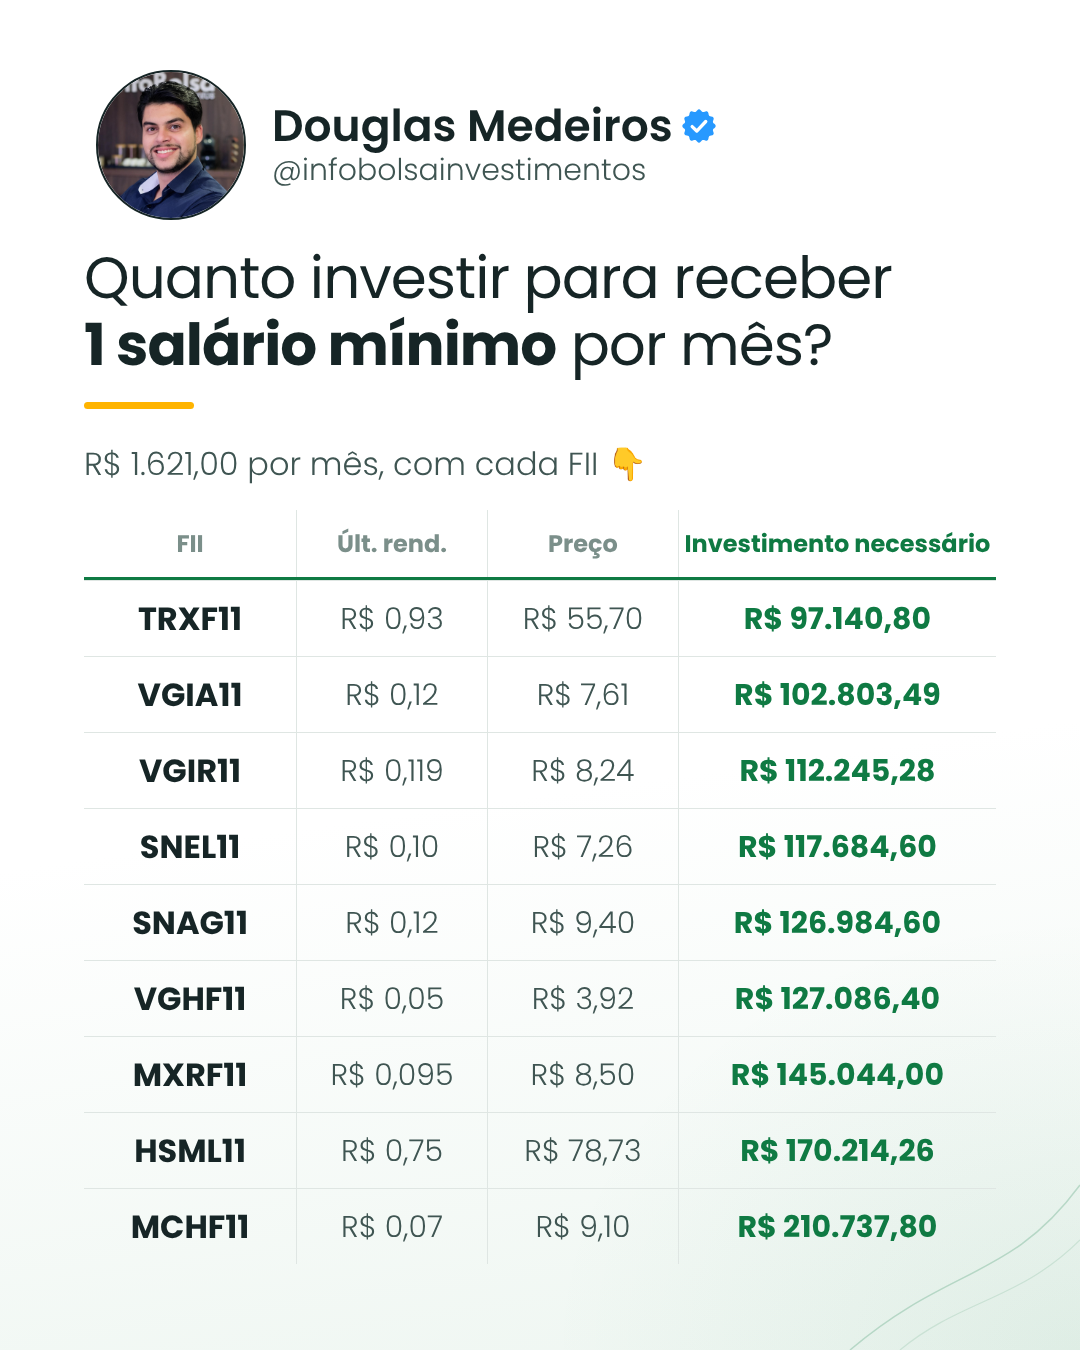
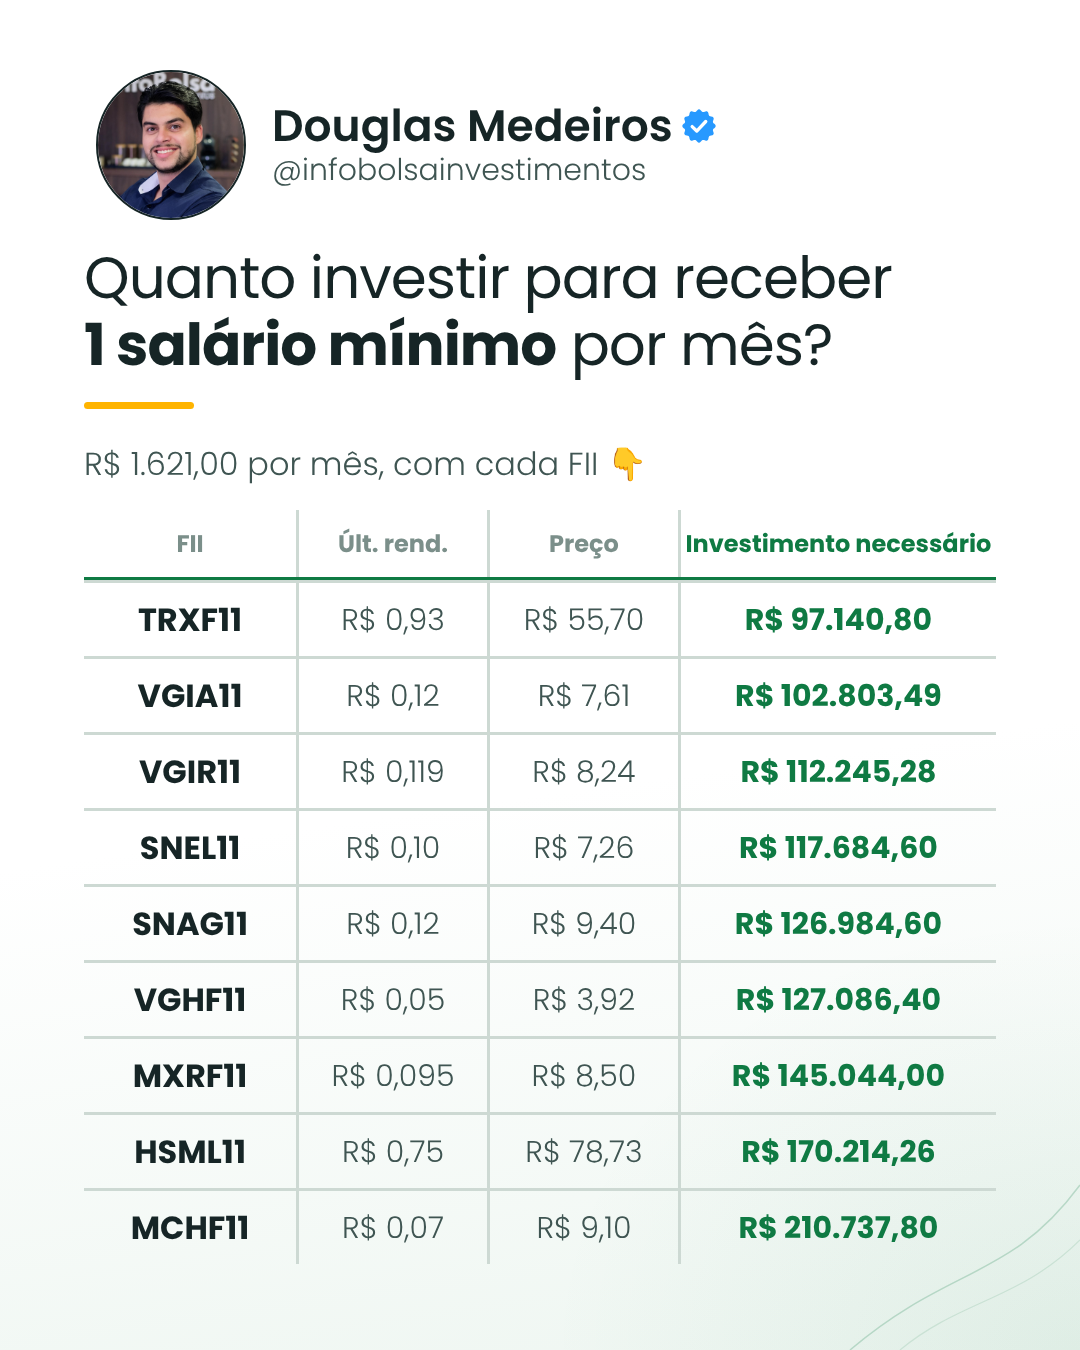
Posts 25/11: linhas separadoras mais grossas
Claude-Session: https://claude.ai/code/session_01V4Ut9U2W4uPbxLAyJQKmJH

diff --git a/kit/gen_qua.py b/kit/gen_qua.py
@@ -31,8 +31,8 @@ def br(v, d=2):
 G = [("HGLG11", "Pátria Log", 608345), ("BTLG11", "BTG Logística", 505908), ("GGRC11", "GGR Covepi", 411230),
      ("XPLG11", "XP Log", 347304), ("VILG11", "Vinci Logística", 149265)]
 CSS1 = """
-.lk{position:absolute;left:84px;right:84px;top:480px;border-top:1.5px solid #dfe6e3}
-.lr{display:flex;align-items:center;gap:28px;height:162px;border-bottom:1.5px solid #dfe6e3}
+.lk{position:absolute;left:84px;right:84px;top:480px;border-top:3px solid #cdd9d3}
+.lr{display:flex;align-items:center;gap:28px;height:162px;border-bottom:3px solid #cdd9d3}
 .lr .ps{width:56px;font-weight:700;font-size:40px;color:#0f7a43}
 .lr:first-child .ps{color:#d99a00}
 .lr img{width:92px;height:92px;border-radius:20px;object-fit:contain;flex:none}
@@ -54,8 +54,8 @@ F = [("IPCA", ["5,15%", "5,12%", "4,00%", "4,00%"]), ("PIB", ["1,70%", "1,00%", 
 CSS2 = """
 .fs{position:absolute;left:84px;right:84px;top:445px;font-size:32px;color:#3f5552}
 .fo{position:absolute;left:84px;right:84px;top:540px}
-.fo .r{display:grid;grid-template-columns:1.1fr 1fr 1fr 1fr 1fr;align-items:center;height:166px;border-bottom:1.5px solid #dfe6e3;text-align:center}
-.fo .r div+div{border-left:1.5px solid #dfe6e3;height:100%;display:flex;align-items:center;justify-content:center}
+.fo .r{display:grid;grid-template-columns:1.1fr 1fr 1fr 1fr 1fr;align-items:center;height:166px;border-bottom:3px solid #cdd9d3;text-align:center}
+.fo .r div+div{border-left:3px solid #cdd9d3;height:100%;display:flex;align-items:center;justify-content:center}
 .fo .r:first-child{height:80px;border-bottom:3px solid #0f7a43;color:#0f7a43;font-weight:700;font-size:30px;letter-spacing:1px}
 .fo .r:first-child div:first-child{color:#7b8f8a;font-size:24px}
 .fo .r div:first-child{text-align:left;font-weight:700;font-size:40px;color:#162526}
@@ -103,9 +103,9 @@ for t, r, p in S:
 L.sort(key=lambda x: x[3])
 CSS4 = """
 .sm{position:absolute;left:84px;right:84px;top:510px}
-.sm .r{display:grid;grid-template-columns:1fr .9fr .9fr 1.5fr;align-items:center;height:76px;border-top:1.5px solid #dfe6e3;text-align:center;font-size:30px;color:#3f5552}
+.sm .r{display:grid;grid-template-columns:1fr .9fr .9fr 1.5fr;align-items:center;height:76px;border-top:3px solid #cdd9d3;text-align:center;font-size:30px;color:#3f5552}
 .sm .r:first-child{height:70px;border-top:none;border-bottom:3px solid #0f7a43;color:#7b8f8a;font-weight:700;font-size:24px}
-.sm .r div+div{border-left:1.5px solid #dfe6e3;height:100%;display:flex;align-items:center;justify-content:center}
+.sm .r div+div{border-left:3px solid #cdd9d3;height:100%;display:flex;align-items:center;justify-content:center}
 .sm .r:first-child div:last-child{color:#0f7a43}
 .sm .r div:first-child{font-weight:700;color:#162526;font-size:32px}
 .sm .r:first-child div:first-child{color:#7b8f8a;font-size:24px}
